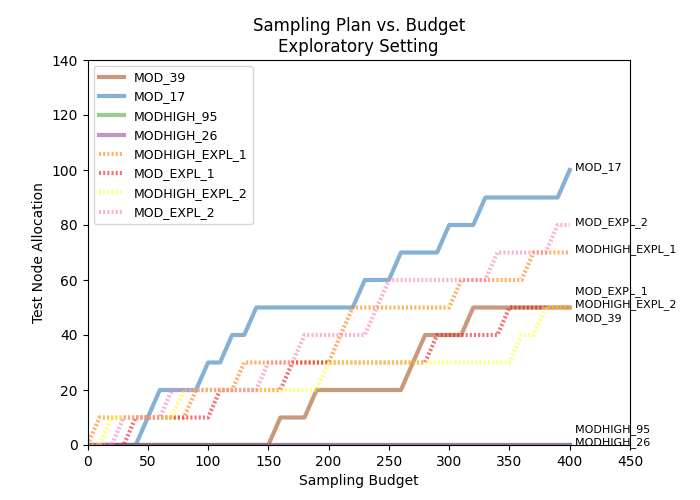
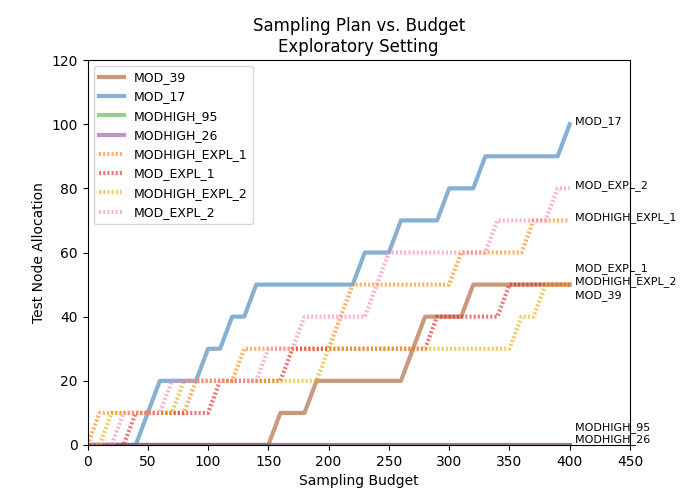
CS updates

diff --git a/CASESTUDY_plotsforpaper.py b/CASESTUDY_plotsforpaper.py
@@ -393,8 +393,10 @@ def casestudyplots_exploratory():
     # Allocation plot
     allocArr = np.load(os.path.join('casestudyoutputs', '15JUN', 'expl_alloc.npy'))
     colorsset = plt.get_cmap('Set1')
+    colorsset2 = plt.get_cmap('Dark2')
     colorinds = [6, 1, 2, 3, 4, 0, 5, 7]
     colors = np.array([colorsset(i) for i in colorinds])
+    colors[6] = colorsset2(5)
     labels = [TNnames[ind] for ind in range(numTN)]
     x = range(0, testmax + 1, testint)
     _ = plt.figure(figsize=figtup)
@@ -416,7 +418,7 @@ def casestudyplots_exploratory():
         elif tnind==2:
             plt.text(testmax * 1.01, allocArr[tnind, -1] * testint + 1.1*delt, labels[tnind].ljust(15), fontsize=labelSz - 1)
         elif tnind==3:
-            plt.text(testmax * 1.01, allocArr[tnind, -1] * testint + 0.1*delt, labels[tnind].ljust(15), fontsize=labelSz - 1)
+            plt.text(testmax * 1.01, allocArr[tnind, -1] * testint + 0.2*delt, labels[tnind].ljust(15), fontsize=labelSz - 1)
         else:
             plt.text(testmax * 1.01, allocArr[tnind, -1] * testint, labels[tnind].ljust(15), fontsize=labelSz - 1)
 
@@ -538,8 +540,10 @@ def casestudyplots_exploratory_market():
     # Allocation plot
     allocArr = np.load(os.path.join('casestudyoutputs', '15JUN', 'expl_market_alloc.npy'))
     colorsset = plt.get_cmap('Set1')
+    colorsset2 = plt.get_cmap('Dark2')
     colorinds = [6, 1, 2, 3, 4, 0, 5, 7]
     colors = np.array([colorsset(i) for i in colorinds])
+    colors[6] = colorsset2(5)
     labels = [TNnames[ind] for ind in range(numTN)]
     x = range(0, testmax + 1, testint)
     _ = plt.figure(figsize=figtup)
@@ -564,7 +568,7 @@ def casestudyplots_exploratory_market():
             plt.text(testmax * 1.01, allocArr[tnind, -1] * testint - delt, labels[tnind].ljust(15),
                      fontsize=labelSz - 1)
         elif tnind == 3:
-            plt.text(testmax * 1.01, allocArr[tnind, -1] * testint + 0.1 * delt, labels[tnind].ljust(15),
+            plt.text(testmax * 1.01, allocArr[tnind, -1] * testint + 0.2 * delt, labels[tnind].ljust(15),
                      fontsize=labelSz - 1)
         else:
             plt.text(testmax * 1.01, allocArr[tnind, -1] * testint, labels[tnind].ljust(15), fontsize=labelSz - 1)
@@ -582,15 +586,15 @@ def casestudyplots_exploratory_market():
 
     #######################
     # Policy utility comparison
-    util_arr = np.load(os.path.join('casestudyoutputs', '31MAY', 'util_avg_arr_expl_market.npy'))
-    util_arr_hi = np.load(os.path.join('casestudyoutputs', '31MAY', 'util_hi_arr_expl_market.npy'))
-    util_arr_lo = np.load(os.path.join('casestudyoutputs', '31MAY', 'util_lo_arr_expl_market.npy'))
+    util_arr = np.load(os.path.join('casestudyoutputs', 'exploratory', 'util_avg_arr_expl_market.npy'))
+    util_arr_hi = np.load(os.path.join('casestudyoutputs', 'exploratory', 'util_hi_arr_expl_market.npy'))
+    util_arr_lo = np.load(os.path.join('casestudyoutputs', 'exploratory', 'util_lo_arr_expl_market.npy'))
     heur_util = np.load(os.path.join('casestudyoutputs', '15JUN', 'expl_market_util_avg.npy'))
     heur_util_hi = np.load(os.path.join('casestudyoutputs', '15JUN', 'expl_market_util_hi.npy'))
     heur_util_lo = np.load(os.path.join('casestudyoutputs', '15JUN', 'expl_market_util_lo.npy'))
-    util_arr = np.vstack((heur_util,util_arr[1:]))
-    util_arr_hi = np.vstack((heur_util_hi, util_arr_hi[1:]))
-    util_arr_lo = np.vstack((heur_util_lo, util_arr_lo[1:]))
+    util_arr = np.vstack((heur_util,util_arr))
+    util_arr_hi = np.vstack((heur_util_hi, util_arr_hi))
+    util_arr_lo = np.vstack((heur_util_lo, util_arr_lo))
     # Utility comparison plot
     colorsset = plt.get_cmap('Accent')
     colorinds = [0, 1, 2]
@@ -622,15 +626,15 @@ def casestudyplots_exploratory_market():
     plt.ylabel('Plan Utility', fontsize=axSz)
     plt.title('Utility from Heuristic vs. Uniform and Rudimentary Allocations\nExploratory Setting with Market Term', fontsize=titleSz)
     # Add text for budgetary savings vs other policies at 100 tests
-    x1, x2, x3 = 100, 119, 298
-    iv = 0.03
+    x1, x2 = 100, 125
+    iv = 0.0032
     utilind = int(x1/testint)
-    plt.plot([x1, x3], [util_arr[0][utilind], util_arr[0][utilind]], color='black', linestyle='--')
+    plt.plot([x1, x2], [util_arr[0][utilind], util_arr[0][utilind]], color='black', linestyle='--')
     plt.plot([100, 100], [util_arr[0][utilind] - iv, util_arr[0][utilind] + iv], color='black', linestyle='--')
     plt.plot([x2, x2], [util_arr[0][utilind] - iv, util_arr[0][utilind] + iv], color='black', linestyle='--')
-    plt.plot([x3, x3], [util_arr[0][utilind] - iv, util_arr[0][utilind] + iv], color='black', linestyle='--')
-    plt.text(103.5, util_arr[0][utilind] + iv / 2, str(int(x2-x1)), fontsize=labelSz)
-    plt.text(190, util_arr[0][utilind] + iv / 2, str(int(x3-x2)), fontsize=labelSz)
+    #plt.plot([x3, x3], [util_arr[0][utilind] - iv, util_arr[0][utilind] + iv], color='black', linestyle='--')
+    plt.text(106, util_arr[0][utilind] + iv / 2, str(int(x2-x1)), fontsize=labelSz)
+    #plt.text(190, util_arr[0][utilind] + iv / 2, str(int(x3-x2)), fontsize=labelSz)
     # plt.tight_layout()
     plt.show()
     plt.close()

diff --git a/CASESTUDY_expl_market.py b/CASESTUDY_expl_market.py
@@ -56,7 +56,7 @@ csdict_expl['prior'] = prior_normal_assort(np.concatenate((SNpriorMean, TNpriorM
 # Set up MCMC
 csdict_expl['MCMCdict'] = {'MCMCtype': 'NUTS', 'Madapt': 5000, 'delta': 0.4}
 # Generate posterior draws
-numdraws = 75000
+numdraws = 15000
 csdict_expl['numPostSamples'] = numdraws
 np.random.seed(1000) # To replicate draws later
 csdict_expl = methods.GeneratePostSamples(csdict_expl)
@@ -70,7 +70,7 @@ testmax, testint = 400, 10
 testarr = np.arange(testint, testmax + testint, testint)
 
 # Set MCMC draws to use in fast algorithm
-numtruthdraws, numdatadraws = 75000, 2000
+numtruthdraws, numdatadraws = 15000, 2000
 # Get random subsets for truth and data draws
 np.random.seed(444)
 truthdraws, datadraws = util.distribute_truthdata_draws(csdict_expl['postSamples'], numtruthdraws, numdatadraws)
